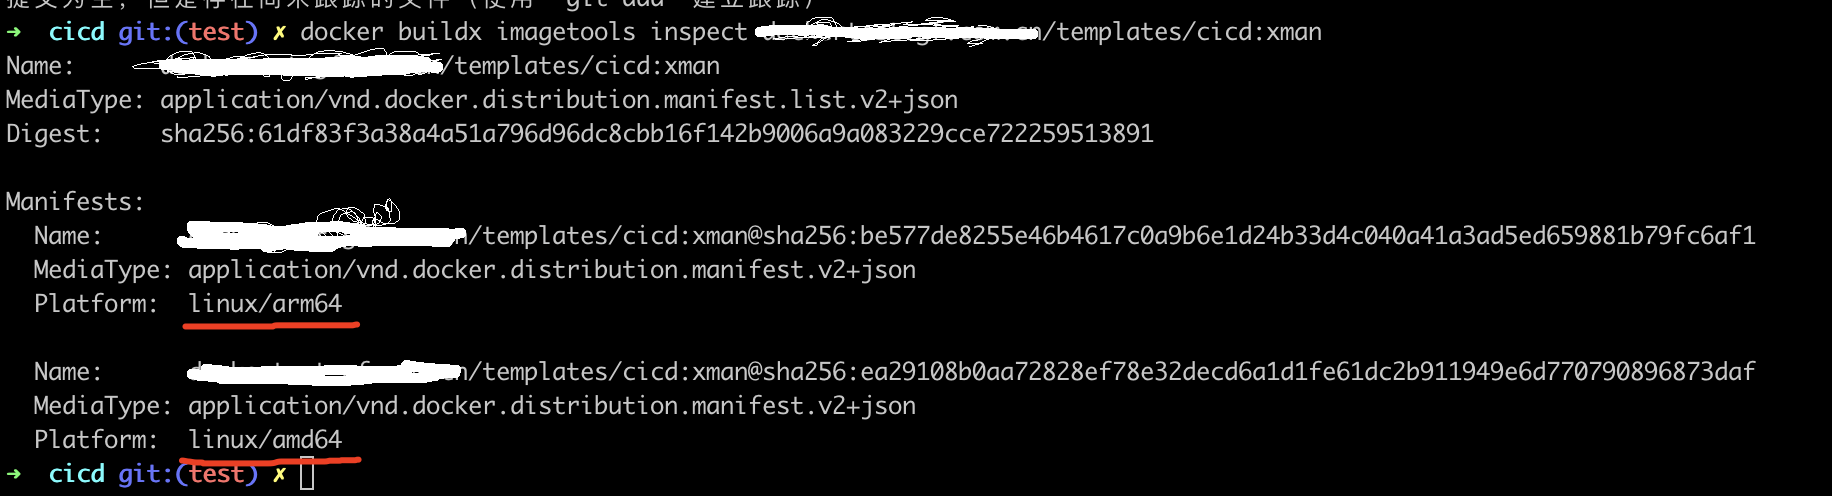
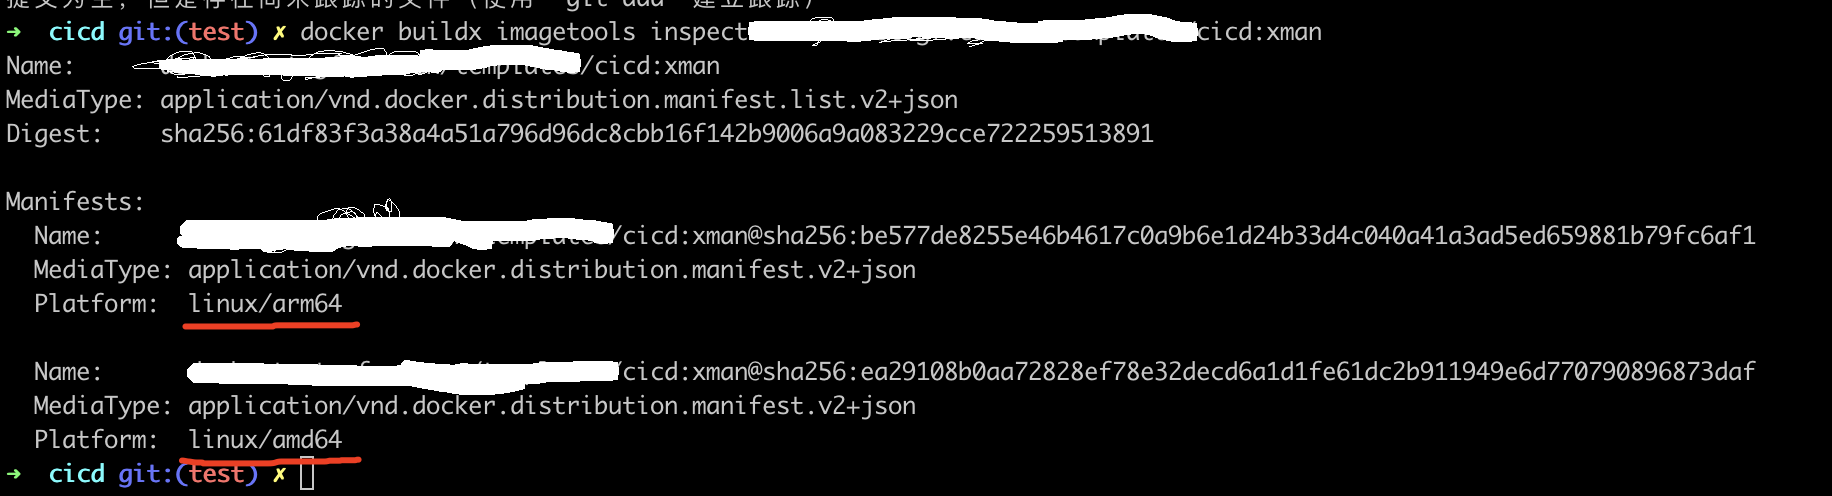
feat(cn_it): mask

diff --git a/content/posts/share/cn_it.md b/content/posts/share/cn_it.md
@@ -28,7 +28,7 @@ series:
 
 ## 跟我们有什么关系？
 
-根据中国证监会科技监管局《关于建立信息技术应用创新工作一把手责任制的通知》（[2021]221号文）要求，公司决定成立信创工作领导小组和执行小组，xx、xx有幸被选中作为首批的试点项目。
+根据xxxxx《xxxxx》（[2021]221号文）要求，xxxxx决定成立信创工作领导小组和执行小组，xx、xx有幸被选中作为首批的试点项目。
 
 ## 我们要做什么？
 
@@ -40,7 +40,7 @@ series:
 
 国产CPU服务器化，对应用侧来说就是将程序部署于国产CPU的服务器之上，目前我们互联网金融的应用程序均部署于公司的微服务平台 — Eagle。
 
-国产服务器硬件层面由 Eagle 与公司基础运维组 统一采购、部署、管理，对于应用侧来说只需将应用程序发布到相应的信创集群即可，那么 Eagle 方面目前提供了哪些方案呢？
+国产服务器硬件层面由 Exxxe 与公司基础运维组 统一采购、部署、管理，对于应用侧来说只需将应用程序发布到相应的信创集群即可，那么 Exxxe 方面目前提供了哪些方案呢？
 
 | 操作系统     | 操作系统研发单位 | CPU型号 | CPU研发单位 | CPU指令集体系 | CPU架构来源 | 是否就绪             |
 | :----------- | :--------------- | :------ | :---------- | :------------ | :---------- | :------------------- |
@@ -48,7 +48,7 @@ series:
 | 银河麒麟 V10 | 麒麟软件         | 飞腾    | 天津飞腾    | ARM           | 指令集授权  | 否                   |
 | 银河麒麟 V10 | 麒麟软件         | 海光    | 天津海光    | x86（AMD）    | IP授权      | 否                   |
 
-Eagle 主推“麒麟+鲲鹏“方案；考虑到服务器交付风险，增加”麒麟+飞腾“备选方案；考虑到业务系统向 ARM 平台迁移改造的适配风险，增加”麒麟+海关“备选方案。
+Exxxe 主推“麒麟+鲲鹏“方案；考虑到服务器交付风险，增加”麒麟+飞腾“备选方案；考虑到业务系统向 ARM 平台迁移改造的适配风险，增加”麒麟+海关“备选方案。
 
 信创主推和备选的是自主化程度较高、基于 ARM 指令集体系方案，对于应用侧来说也是改造最多的，所以这是我们重点关注的方案。
 
@@ -225,7 +225,7 @@ func main() {
 
 ```Dockerfile
 # Go 可执行文件构建阶段
-FROM --platform=$TARGETPLATFORM xxxx/sni-be/go:1.16-alpine3.14 AS builder
+FROM --platform=$TARGETPLATFORM xxxx/go:1.16-alpine3.14 AS builder
 ARG TARGETPLATFORM
 ARG BUILDPLATFORM
 
@@ -239,7 +239,7 @@ RUN go build -o /app/server .
 
 
 # Go 可执行文件运行环境构建阶段
-FROM --platform=$TARGETPLATFORM xxxx/sni-be/alpine:3.11
+FROM --platform=$TARGETPLATFORM xxxx/alpine:3.11
 
 COPY --from=builder /app/server /go/bin/server
 ADD config /go/bin/config
@@ -411,7 +411,7 @@ Percentage of the requests served within a certain time (ms)
 #### 改造 Dockerfile
 
 ```Dockerfile
-FROM --platform=$TARGETPLATFORM xxxx/sni-be/go:1.16-alpine3.14 AS builder
+FROM --platform=$TARGETPLATFORM xxxx/go:1.16-alpine3.14 AS builder
 ARG TARGETPLATFORM
 ARG BUILDPLATFORM
 
@@ -422,7 +422,7 @@ WORKDIR /app
 RUN go build -o /app/server .
 
 
-FROM --platform=$TARGETPLATFORM xxxx/sni-be/alpine:3.11
+FROM --platform=$TARGETPLATFORM xxxx/alpine:3.11
 
 COPY --from=builder /app/server /go/bin/server
 ADD config /go/bin/config
@@ -468,7 +468,7 @@ variables:
 
 
 ```sh
-skopeo copy -a docker://docker.io/library/alpine:3.11 docker://xxxx/sni-be/alpine:3.11
+skopeo copy -a docker://docker.io/library/alpine:3.11 docker://xxxx/alpine:3.11
 ```
 
 ### buildx 编译时 moby/buildkit 时无法下载或下载太慢，肿么办？
@@ -500,13 +500,13 @@ docker buildx create --driver-opt image=xxxx/moby/buildkit:latest --use
 
 | 说明                 | 镜像地址                                                     |
 | -------------------- | ------------------------------------------------------------ |
-| go 16.3              | [xxxx/sni-be/go:v1.0.0](http://xxxx/sni-be/go:v1.0.0) |
-| alpine 3.13          | [xxxx/sni-be/runtime:v1.0.0](http://xxxx/sni-be/runtime:v1.0.0) |
-| node 6.11.5          | [xxxx/sni-be/runtime:node6.11.5](http://xxxx/sni-be/runtime:node6.11.5) |
-| node 16              | [xxxx/sni-be/runtime:node16-alpine3.14](http://xxxx/sni-be/runtime:node16-alpine3.14) |
-| dind with buildx     | [xxxx/sni-be/dindx:latest](http://xxxx/sni-be/dindx:latest) |
+| go 16.3              | [xxxx/go:v1.0.0](http://xxxx/go:v1.0.0) |
+| alpine 3.13          | [xxxx/runtime:v1.0.0](http://xxxx/runtime:v1.0.0) |
+| node 6.11.5          | [xxxx/runtime:node6.11.5](http://xxxx/runtime:node6.11.5) |
+| node 16              | [xxxx/runtime:node16-alpine3.14](http://xxxx/runtime:node16-alpine3.14) |
+| dind with buildx     | [xxxx/dindx:latest](http://xxxx/dindx:latest) |
 | moby build kit       | [xxxx/moby/buildkit:latest](http://xxxx/moby/buildkit:latest) |
-| gitlab runner helper | [xxxx/sni-be/gitlab-runner-helper:alpine](http://xxxx/sni-be/gitlab-runner-helper:alpine) |
+| gitlab runner helper | [xxxx/gitlab-runner-helper:alpine](http://xxxx/gitlab-runner-helper:alpine) |
 
 
 
